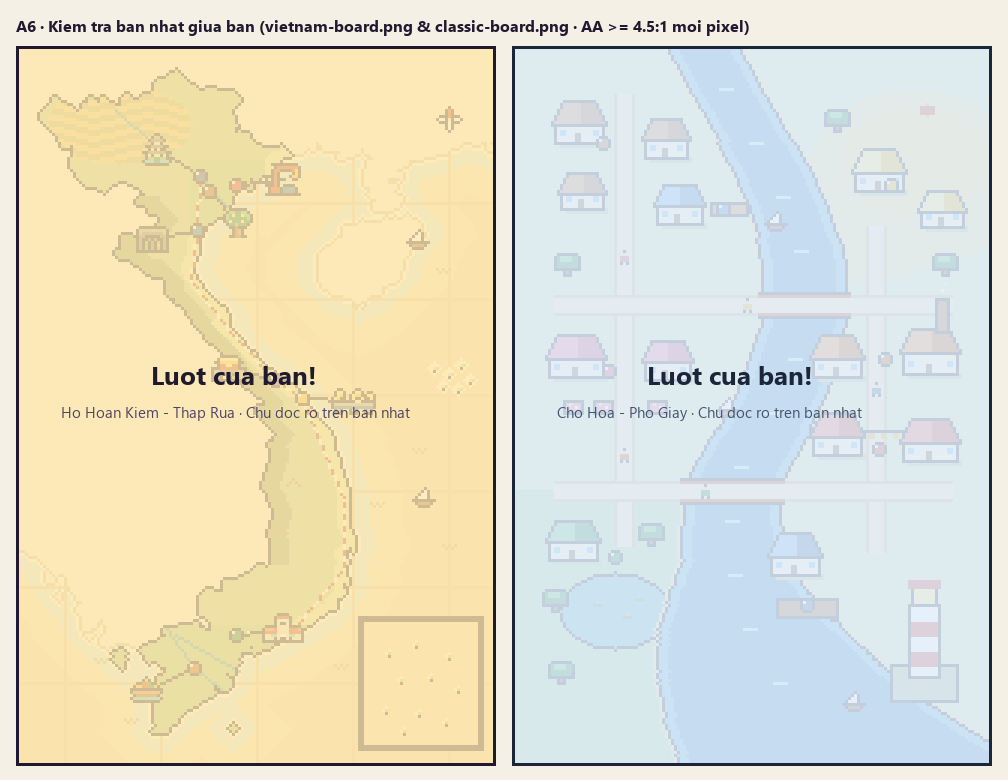
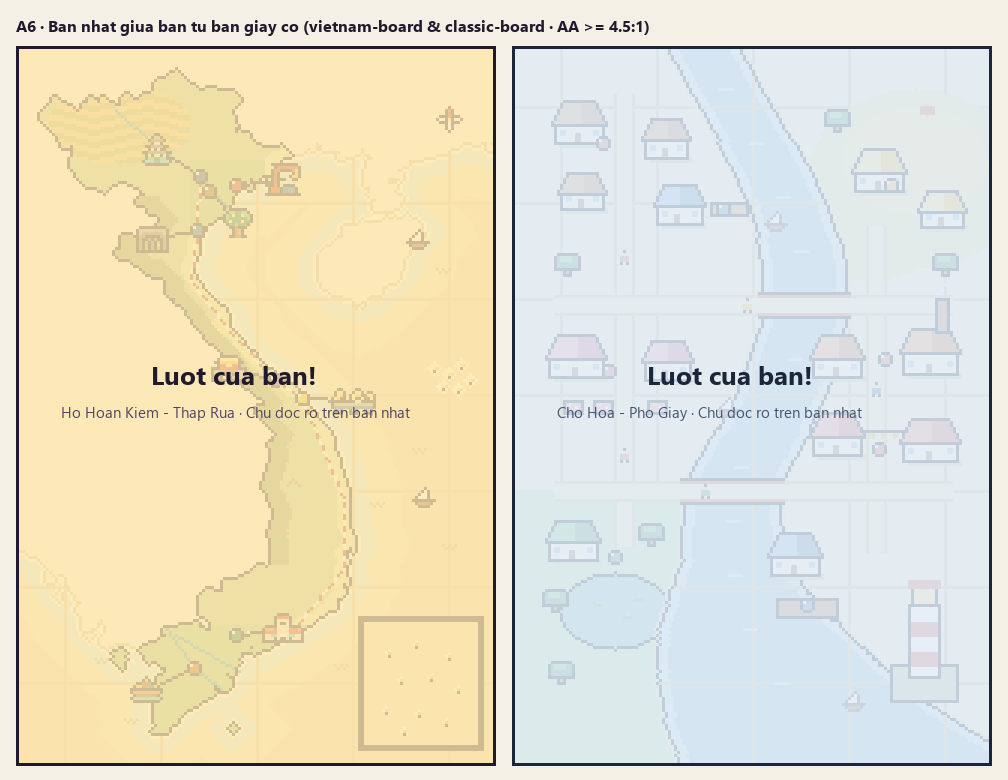
A6: Bản đồ vùng đất pixel (2 bản rực rỡ + giấy cổ cho cả Dải đất và Phố Giấy)
Agent: agy

diff --git a/assets/themes/SOURCES.md b/assets/themes/SOURCES.md
@@ -14,13 +14,13 @@ Mọi ảnh trong thư mục này do dự án tự vẽ hoặc dựng từ dữ 
   - `check/vietnam-map-draft-a.png` (A: biển xanh đậm kiểu bản đồ game RPG).
   - `check/vietnam-map-draft-b.png` (B: bản đồ giấy cổ vàng kem nắng).
 - **Tọa độ pixel gốc:** `vietnam-map.json` (không vẽ chữ lên ảnh).
-- **Bản hoàn chỉnh A6 (gốc 160×240, mỗi PNG < 8 KB < 40 KB):**
-  - `vietnam-map.png` (bản A: biển xanh RPG rực rỡ, mặc định).
-  - `vietnam-map-vintage.png` (bản B: bản đồ giấy cổ vàng kem nắng — giữ cả 2 làm tùy chọn theo yêu cầu người dùng, ghi trong `vietnam-map.json`).
-  - `vietnam-board.png` (bản nhạt cho giữa bàn, kiểm chứng AA ≥ 4,65:1 mọi pixel với `--ink-2` và ≥ 8,96:1 với `--ink`).
-  - `classic-map.png` (Phố Giấy nhìn chéo từ trên xuống, dòng sông uốn lượn, 2 cầu, 8 khu đúng màu A1, hải đăng, thuyền, người que nhỏ) + `classic-map.json`.
-  - `classic-board.png` (bản nhạt cho giữa bàn Phố Giấy, kiểm chứng AA ≥ 4,70:1 mọi pixel).
-  - Ảnh kiểm tra: `check/classic-map-preview.png` (×3), `check/boards-preview.png`.
+- **Bản hoàn chỉnh A6 (gốc 160×240, mỗi PNG < 8 KB < 40 KB, mỗi map đủ 2 bản rực rỡ + giấy cổ):**
+  - `vietnam-map.png` (bản A: biển xanh RPG rực rỡ, cho trang đầu).
+  - `vietnam-map-paper.png` (bản B: giấy cổ vàng kem nắng, khai báo trong `vietnam-map.json` mục `variants`).
+  - `vietnam-board.png` (bản nhạt cho giữa bàn từ `vietnam-map-paper.png`, kiểm chứng AA ≥ 4,65:1 mọi pixel với `--ink-2` và ≥ 8,96:1 với `--ink`).
+  - `classic-map.png` (Phố Giấy rực rỡ nhìn chéo từ trên xuống, dòng sông uốn lượn, 2 cầu, 8 khu đúng màu A1, hải đăng, thuyền, người que nhỏ) + `classic-map-paper.png` (bản giấy cổ Phố Giấy) + `classic-map.json`.
+  - `classic-board.png` (bản nhạt cho giữa bàn Phố Giấy từ `classic-map-paper.png`, kiểm chứng AA ≥ 4,68:1 mọi pixel với `--ink-2` và ≥ 9,40:1 với `--ink`).
+  - Ảnh kiểm tra: `check/classic-map-preview.png` (×3), `check/classic-map-paper-preview.png` (×3), `check/boards-preview.png`.
 
 ## A4p · Nền lặp kiểu pixel 32×32 (2026-11-28)
 - `vietnam-tile.png` (279 B): ô lặp 32×32 nối liền không đường ghép, sóng nước chu kỳ 16px, mây nhỏ & chấm hoa mai trên nền trong suốt.

diff --git a/docs/agents/agy.md b/docs/agents/agy.md
@@ -4,6 +4,10 @@
 - Đã tạo nội dung chữ cho map Việt Nam (40 ô, 13 loại thẻ Vận mệnh, gợi ý Thanh Hóa) và chạy `node --test tests/*.test.mjs` (17/17 xanh).
 - File: `content/vietnam.json`.
 
+## 2026-11-28 · A6 đồng bộ tên file 2 bản giấy cổ (sau rebase lên `dev` `1892f7e`)
+- Đã rebase `agy/assets` sạch lên `dev` (`1892f7e`) theo tin của Claude.
+- Đổi tên `assets/themes/vietnam-map-vintage.png` → `assets/themes/vietnam-map-paper.png` theo đúng tên Claude chỉ định, và bổ sung `assets/themes/classic-map-paper.png` (5,4 KB, bản giấy cổ Phố Giấy) + cập nhật `classic-board.png` (5,1 KB, mọi pixel đạt AA ≥ 4,68:1 với `--ink-2` và ≥ 9,40:1 với `--ink`) + `vietnam-map.json` / `classic-map.json` + `check/classic-map-paper-preview.png`.
+
 ## 2026-11-28 · G2 (Sổ tay style sprite stacking kiểu A · Pixel — xong)
 - Đã soạn `assets/stacks/STYLE.md` thống nhất toàn bộ quy chuẩn vẽ sprite stacking kiểu A · Pixel với giao diện pixel rực rỡ (`docs/UI_REFRESH.md` mục 0) và bảng màu A1 (`design/themes/palettes.md`): lưới/số lát (`spacing: 1.0`, `squash: 0.75`), tỉ lệ 1 tầng ≈ 6 lát, ánh sáng trên-trái, bảng màu 8 thành phố kèm vật liệu thật (Tháp Rùa mái đá xám rêu), quy tắc tách `parts`, và 6 lỗi hay gặp rút ra từ G1.
 - File: `assets/stacks/STYLE.md`.
